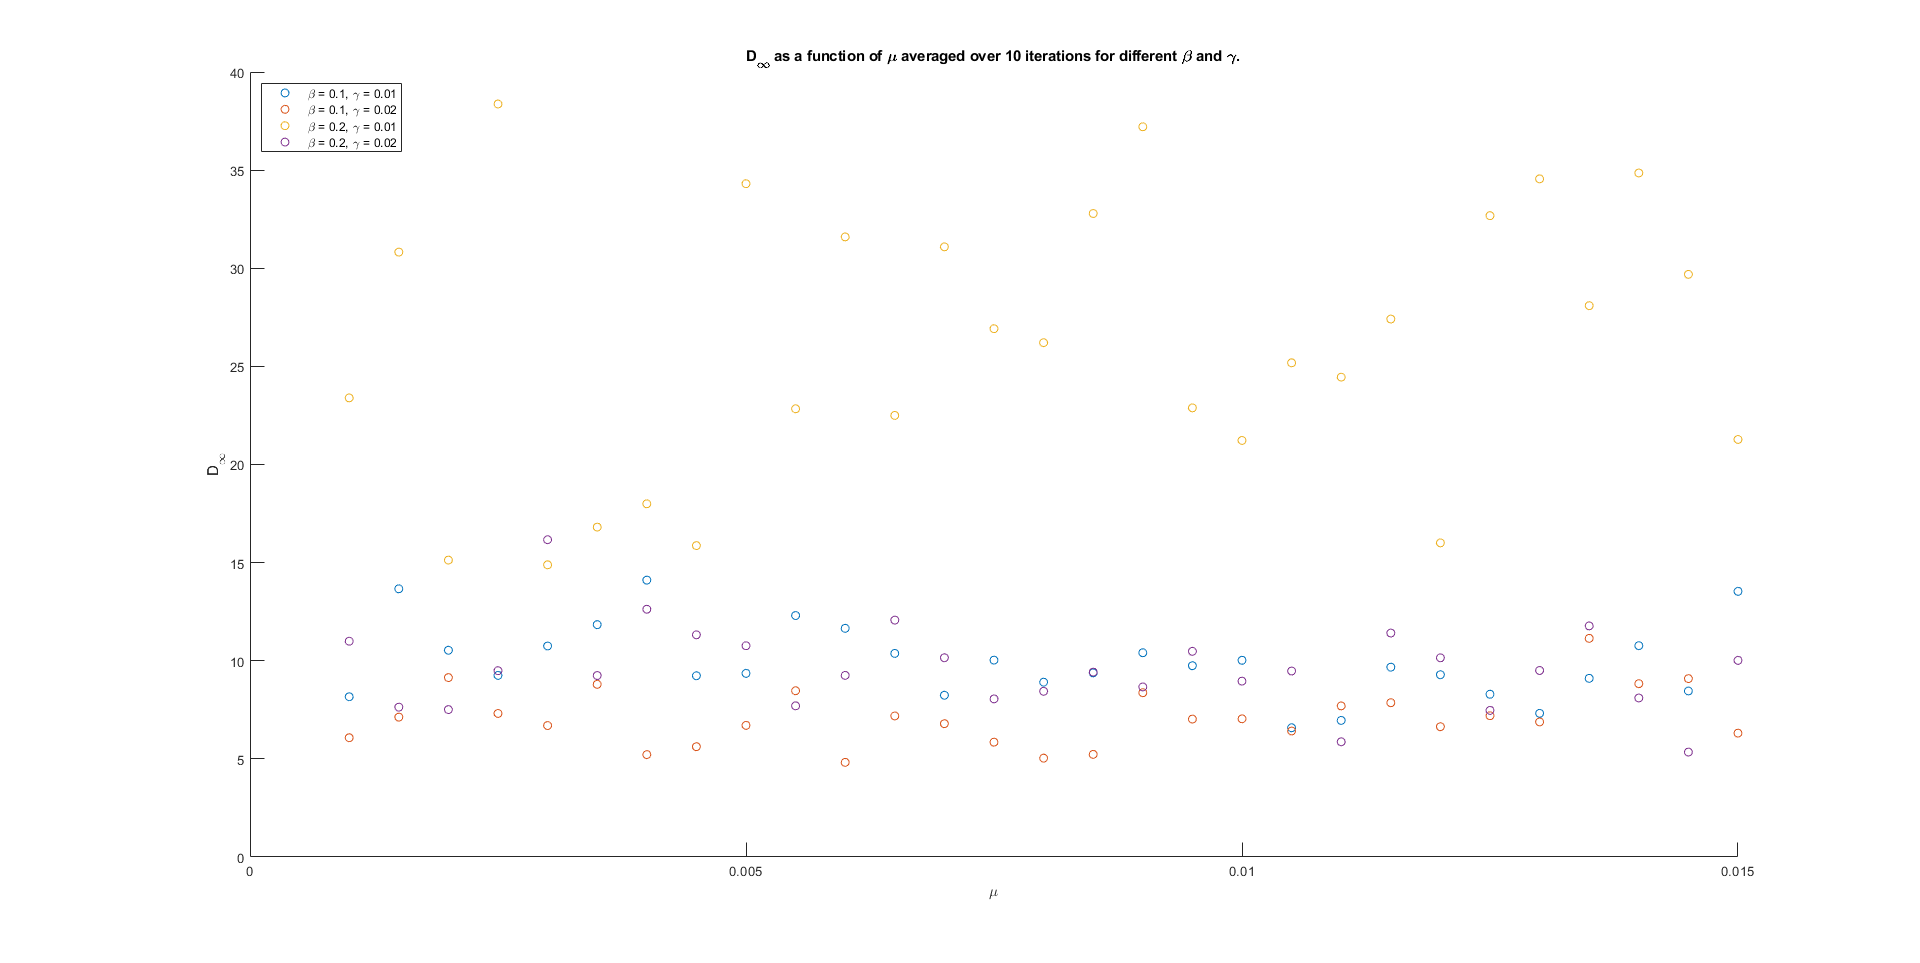
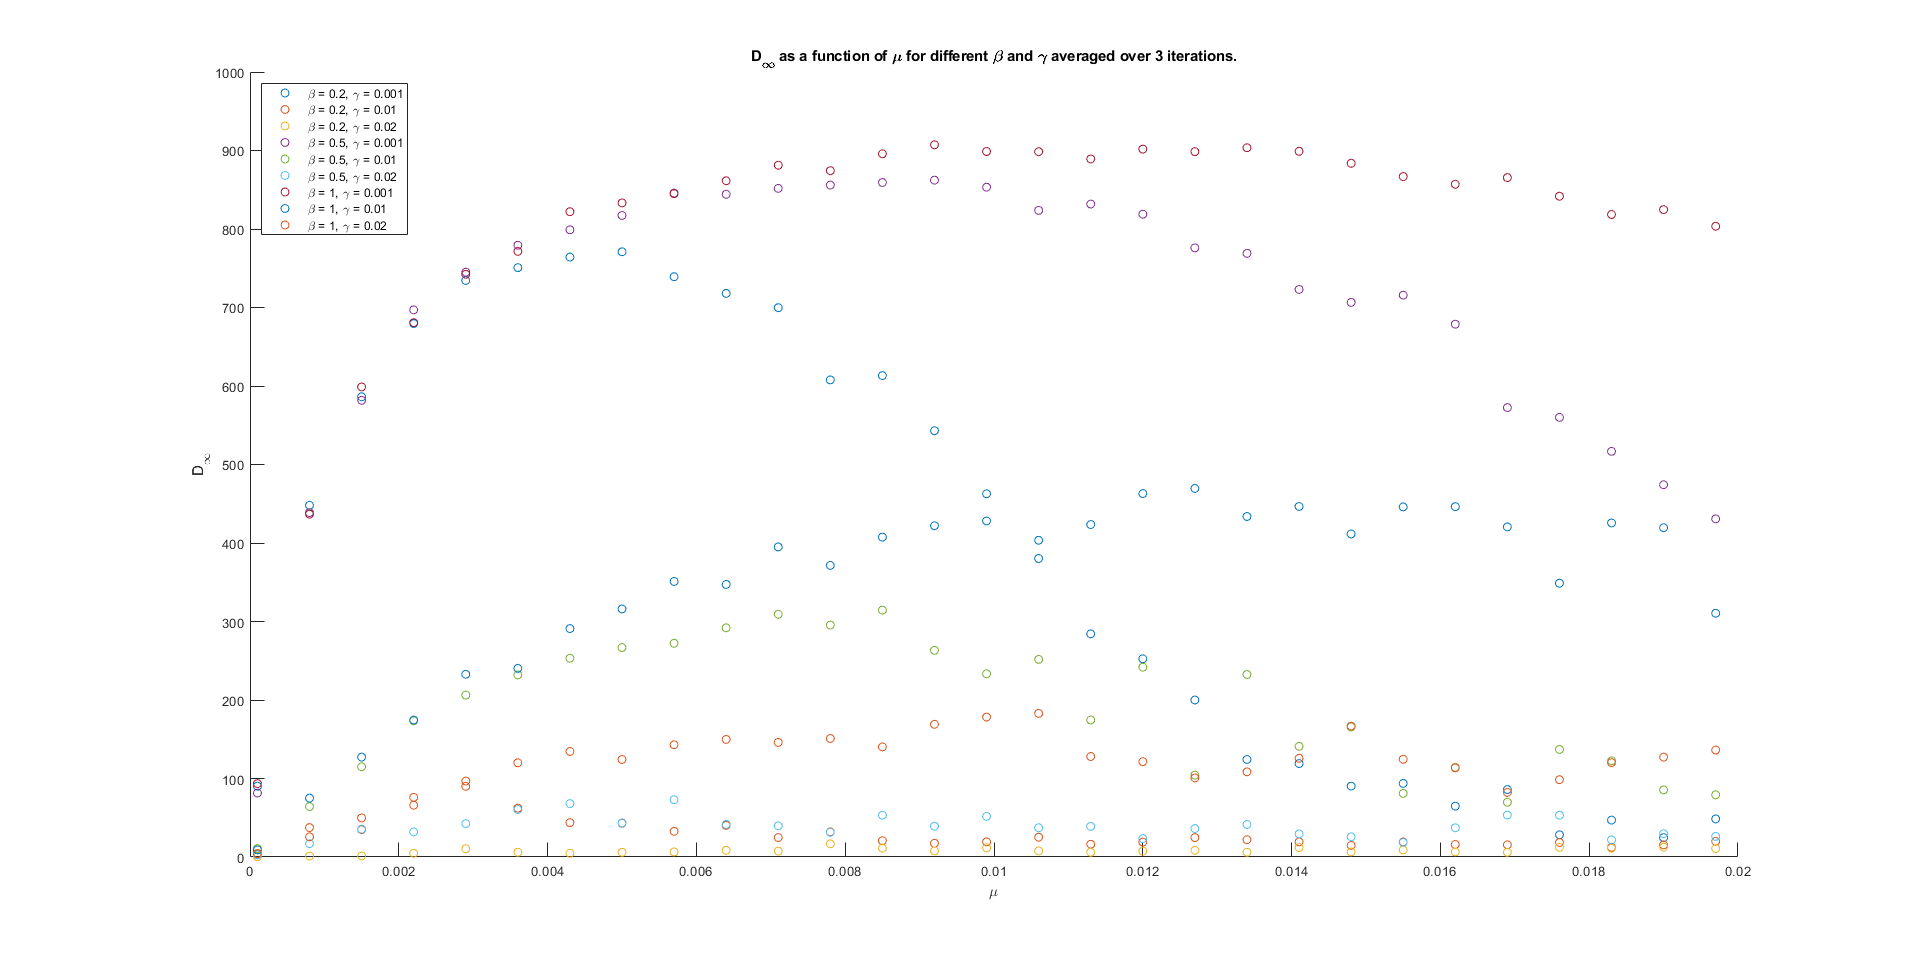
Final simulations done.

Changed region(s): [[0.4062, 0.0312, 0.6562, 0.0623], [0.125, 0.1558, 0.2188, 0.2492], [0.0938, 0.4673, 0.125, 0.4984]]

diff --git a/Exercise 11/SIR_model_with_mortality.m b/Exercise 11/SIR_model_with_mortality.m
@@ -7,15 +7,12 @@ initialInfectionRate = 0.01;
 d = 0.8; % Probability of moving. 
 
 % Parameters for 11.3.
-betas = [0.1, 0.2]; 
-betas = 0.5;
-gammas = [0.01, 0.02]; 
-gammas = 0.01;
-mu = [0.015:0.0015:0.015*3]; % Probability of death when infected.
-mu = [0.01:0.04:1];
+betas = [0.2, 0.5, 1]; 
+gammas = [0.001, 0.01, 0.02]; 
+mu = [0.0001:0.0007:0.02]; % Probability of death when infected.
 [betaList, gammaList, muList] = meshgrid(betas, gammas, mu);
 params = [betaList(:), gammaList(:), muList(:)];
-trials = 1;
+trials = 3;
 
 for m = 1:trials
 disp(m)
@@ -42,17 +39,12 @@ while (~CheckForInfected(lattice) && (t < 5000))
     lattice = Diffusion(lattice, d);
     lattice = Infection(lattice, beta);
     lattice = Recovery(lattice, gamma);
-    lattice = Death(lattice, gamma);
+    lattice = Death(lattice, mu);
     SIR(t + 1, :) = GetData(lattice, mu);
-    if (rem(t, 10) == 0)
-        %Plots(lattice, SIR, beta, gamma, t);
-        %pause(0.01)
-    end
     t = t + 1;
 end
 
 SIR(t + 1, :) = GetData(lattice, mu);
-%Plots(lattice, SIR, beta, gamma, t);
 
 data(T, :) = [beta, gamma, mu, SIR(end, 1), SIR(end, 2), SIR(end, 3), SIR(end, 4), t];
 if (rem(T, 10) == 0)
@@ -69,36 +61,35 @@ end
 
 end % Loop through trials. 
 
-%save('dataMu', 'avgData');
-%save('dataMu3', 'avgData');
+save('dataMu', 'avgData');
 
 toc
 
 %% D_inf as a function of mu. 
-load('dataMu2', 'avgData');
-avgData2 = avgData;
-index11_2 = (avgData2(:, 1) == 0.5).*(avgData2(:, 2) == 0.001);
-index12_2 = (avgData2(:, 1) == 0.5).*(avgData2(:, 2) == 0.01);
-index21_2 = (avgData2(:, 1) == 1).*(avgData2(:, 2) == 0.001);
-index22_2 = (avgData2(:, 1) == 1).*(avgData2(:, 2) == 0.01);
 load('dataMu', 'avgData');
-index11 = (avgData(:, 1) == 0.1).*(avgData(:, 2) == 0.01);
-index12 = (avgData(:, 1) == 0.1).*(avgData(:, 2) == 0.02);
-index21 = (avgData(:, 1) == 0.2).*(avgData(:, 2) == 0.01);
-index22 = (avgData(:, 1) == 0.2).*(avgData(:, 2) == 0.02);
+index11 = (avgData(:, 1) == 0.2).*(avgData(:, 2) == 0.001);
+index12 = (avgData(:, 1) == 0.2).*(avgData(:, 2) == 0.01);
+index13 = (avgData(:, 1) == 0.2).*(avgData(:, 2) == 0.02);
+index21 = (avgData(:, 1) == 0.5).*(avgData(:, 2) == 0.001);
+index22 = (avgData(:, 1) == 0.5).*(avgData(:, 2) == 0.01);
+index23 = (avgData(:, 1) == 0.5).*(avgData(:, 2) == 0.02);
+index31 = (avgData(:, 1) == 1).*(avgData(:, 2) == 0.001);
+index32 = (avgData(:, 1) == 1).*(avgData(:, 2) == 0.01);
+index33 = (avgData(:, 1) == 1).*(avgData(:, 2) == 0.02);
 hold on 
 scatter(avgData(find(index11), 3), avgData(find(index11), 7))
 scatter(avgData(find(index12), 3), avgData(find(index12), 7))
+scatter(avgData(find(index13), 3), avgData(find(index13), 7))
 scatter(avgData(find(index21), 3), avgData(find(index21), 7))
 scatter(avgData(find(index22), 3), avgData(find(index22), 7))
-scatter(avgData2(find(index11_2), 3), avgData2(find(index11_2), 7))
-scatter(avgData2(find(index12_2), 3), avgData2(find(index12_2), 7))
-scatter(avgData2(find(index21_2), 3), avgData2(find(index21_2), 7))
-scatter(avgData2(find(index22_2), 3), avgData2(find(index22_2), 7))
-title('D_\infty as a function of \mu for different \beta and \gamma.')
-legend('\beta = 0.1, \gamma = 0.01', '\beta = 0.1, \gamma = 0.02', '\beta = 0.2, \gamma = 0.01', ... 
-        '\beta = 0.1, \gamma = 0.01', '\beta = 0.5, \gamma = 0.001', '\beta = 0.5, \gamma = 0.01', ... 
-         '\beta = 1, \gamma = 0.001', '\beta = 1, \gamma = 0.01', 'Location', 'northwest')
+scatter(avgData(find(index23), 3), avgData(find(index23), 7))
+scatter(avgData(find(index31), 3), avgData(find(index31), 7))
+scatter(avgData(find(index32), 3), avgData(find(index32), 7))
+scatter(avgData(find(index33), 3), avgData(find(index33), 7))
+title('D_\infty as a function of \mu for different \beta and \gamma averaged over 3 iterations.')
+legend('\beta = 0.2, \gamma = 0.001', '\beta = 0.2, \gamma = 0.01', '\beta = 0.2, \gamma = 0.02', ... 
+        '\beta = 0.5, \gamma = 0.001', '\beta = 0.5, \gamma = 0.01', '\beta = 0.5, \gamma = 0.02', ... 
+         '\beta = 1, \gamma = 0.001',   '\beta = 1, \gamma = 0.01',   '\beta = 1, \gamma = 0.02', 'Location', 'northwest')
 xlabel('\mu')
 ylabel('D_\infty')
 hold off

diff --git a/Exercise 11/SIR_model_with_temporary_immunity.m b/Exercise 11/SIR_model_with_temporary_immunity.m
@@ -81,7 +81,7 @@ end % Loop through trials.
 
 toc
 
-%% R_inf/5000 as a function of mu. 
+%% R_inf/5000 as a function of alpha. 
 load('dataAlpha', 'avgData');
 index11 = (avgData(:, 1) == 0.1).*(avgData(:, 2) == 0.01);
 index12 = (avgData(:, 1) == 0.1).*(avgData(:, 2) == 0.02);
